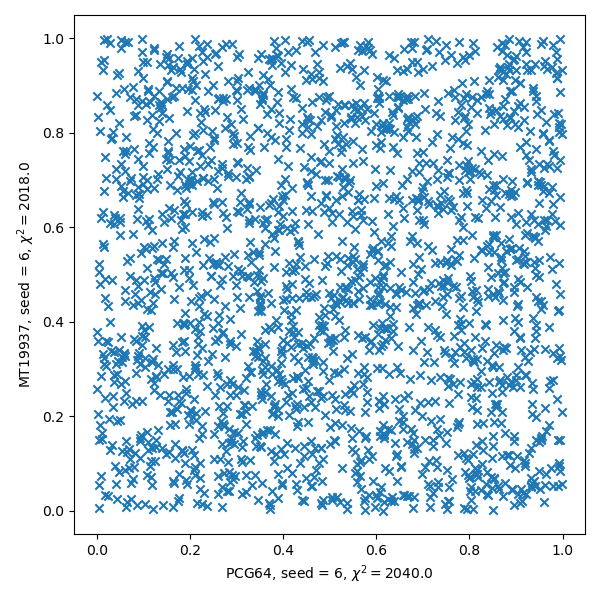
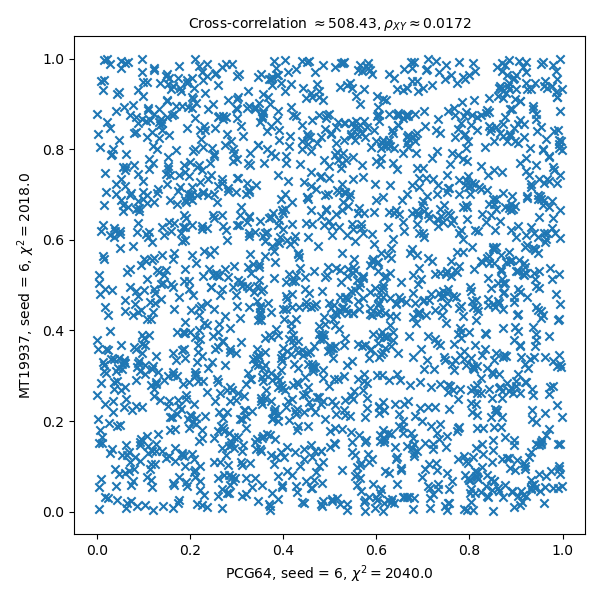
Updated some graphs

diff --git a/Lab 1/rng_comp.py b/Lab 1/rng_comp.py
@@ -43,7 +43,6 @@ x1endtime = perf_counter()
 timearr[0] = x1endtime - x1starttime
 
 x15 = np.roll(x1, 10)  # Move each value of x1 10 spaces along
-pcg64chi1 = chisquare_test(x1, 2000)
 
 # Bitgenerator PCG64 (default for numpy), with seed 15832
 rng = Generator(PCG64(seed=15832))
@@ -58,11 +57,14 @@ x25 = np.roll(x2, 10)
 # Statistical tests 
 ####################################
 
+pcg64chi1 = chisquare_test(x1, 2000)
 pcg64chi2 = chisquare_test(x2, 2000)
 pcg64chi3 = chisquare_test(x15, 2000)
 pcg64chi4 = chisquare_test(x25, 2000)
+correl_seeds = np.around(np.correlate(x1, x2)[0], 2)
 correl1 = np.around(np.correlate(x1, x15)[0], 2)
 correl2 = np.around(np.correlate(x2, x25)[0], 2)
+pearsoncoeff_seeds = np.around(np.corrcoef(x1, x2)[0, 1], 5)
 pearsoncoeff1 = np.around(np.corrcoef(x1, x15)[0, 1], 5)
 pearsoncoeff2 = np.around(np.corrcoef(x2, x25)[0, 1], 5)
 
@@ -71,6 +73,10 @@ pearsoncoeff2 = np.around(np.corrcoef(x2, x25)[0, 1], 5)
 ####################################
 plt.figure(figsize=(6, 6))
 plt.scatter(x1, x2, marker="x")
+plt.title(
+    r"Cross-correlation $\approx %1.2f, \rho_{XY}\approx %1.4f$"
+    % (correl_seeds, pearsoncoeff_seeds),
+    fontsize=10,)
 plt.xlabel("Seed = 6, $\chi^2 = {}$".format(pcg64chi1))
 plt.ylabel("Seed = 15832, $\chi^2 = {}$".format(pcg64chi2))
 plt.tight_layout()
@@ -116,7 +122,15 @@ y1starttime = perf_counter()
 y1 = rng.random(2000)
 y1endtime = perf_counter()
 timearr[2] = y1endtime - y1starttime
+
+
+####################################
+# Statistical tests 
+####################################
+
 mt19937chi1 = chisquare_test(y1, 2000)
+correl_seeds2 = np.around(np.correlate(x1, y1)[0], 2)
+pearsoncoeff_seeds2 = np.around(np.corrcoef(x1, y1)[0, 1], 5)
 
 ####################################
 # Plotting routine
@@ -124,6 +138,10 @@ mt19937chi1 = chisquare_test(y1, 2000)
 
 plt.figure(figsize=(6, 6))
 plt.scatter(x1, y1, marker="x")
+plt.title(
+    r"Cross-correlation $\approx %1.2f, \rho_{XY}\approx %1.4f$"
+    % (correl_seeds2, pearsoncoeff_seeds2),
+    fontsize=10,)
 plt.xlabel("PCG64, seed = 6, $\chi^2 = {}$".format(pcg64chi1))
 plt.ylabel("MT19937, seed = 6, $\chi^2 = {}$".format(mt19937chi1))
 plt.tight_layout()
@@ -162,8 +180,10 @@ mt19937chi1 = chisquare_test(y1, 2000)
 mt19937chi2 = chisquare_test(y2, 2000)
 mt19937chi3 = chisquare_test(y15, 2000)
 mt19937chi4 = chisquare_test(y25, 2000)
+correl_seeds3 = np.around(np.correlate(y1, y2)[0], 2)
 correl3 = np.around(np.correlate(y1, y15)[0], 2)
 correl4 = np.around(np.correlate(y2, y25)[0], 2)
+pearsoncoeff_seeds3 = np.around(np.corrcoef(y1, y2)[0, 1], 5)
 pearsoncoeff3 = np.around(np.corrcoef(y1, y15)[0, 1], 5)
 pearsoncoeff4 = np.around(np.corrcoef(y2, y25)[0, 1], 5)
 
@@ -173,11 +193,14 @@ pearsoncoeff4 = np.around(np.corrcoef(y2, y25)[0, 1], 5)
 
 plt.figure(figsize=(6, 6))
 plt.scatter(y1, y2, marker="x")
+plt.title(
+    r"Cross-correlation $\approx %1.2f, \rho_{XY}\approx %1.4f$"
+    % (correl_seeds3, pearsoncoeff_seeds3),
+    fontsize=10,)
 plt.xlabel("Seed = 5255, $\chi^2 = {}$".format(mt19937chi1))
 plt.ylabel("Seed = 7381, $\chi^2 = {}$".format(mt19937chi2))
 plt.tight_layout()
 plt.savefig(fname="MT19937-5525-7381")
-
 
 ################################################
 # Plotting routine
